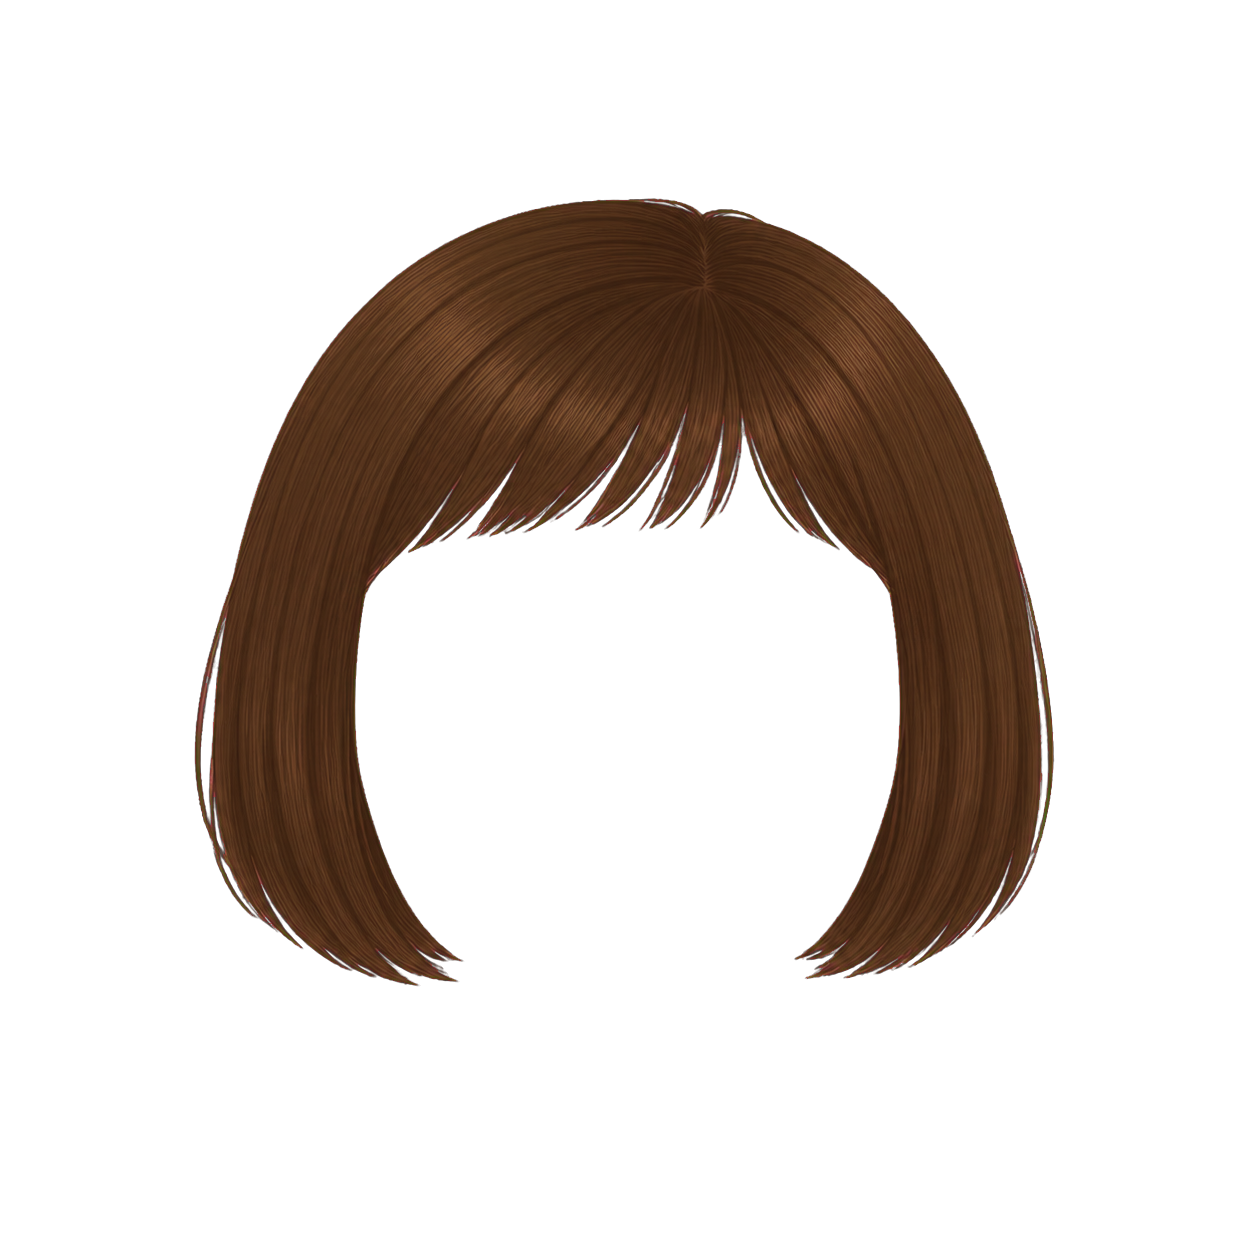
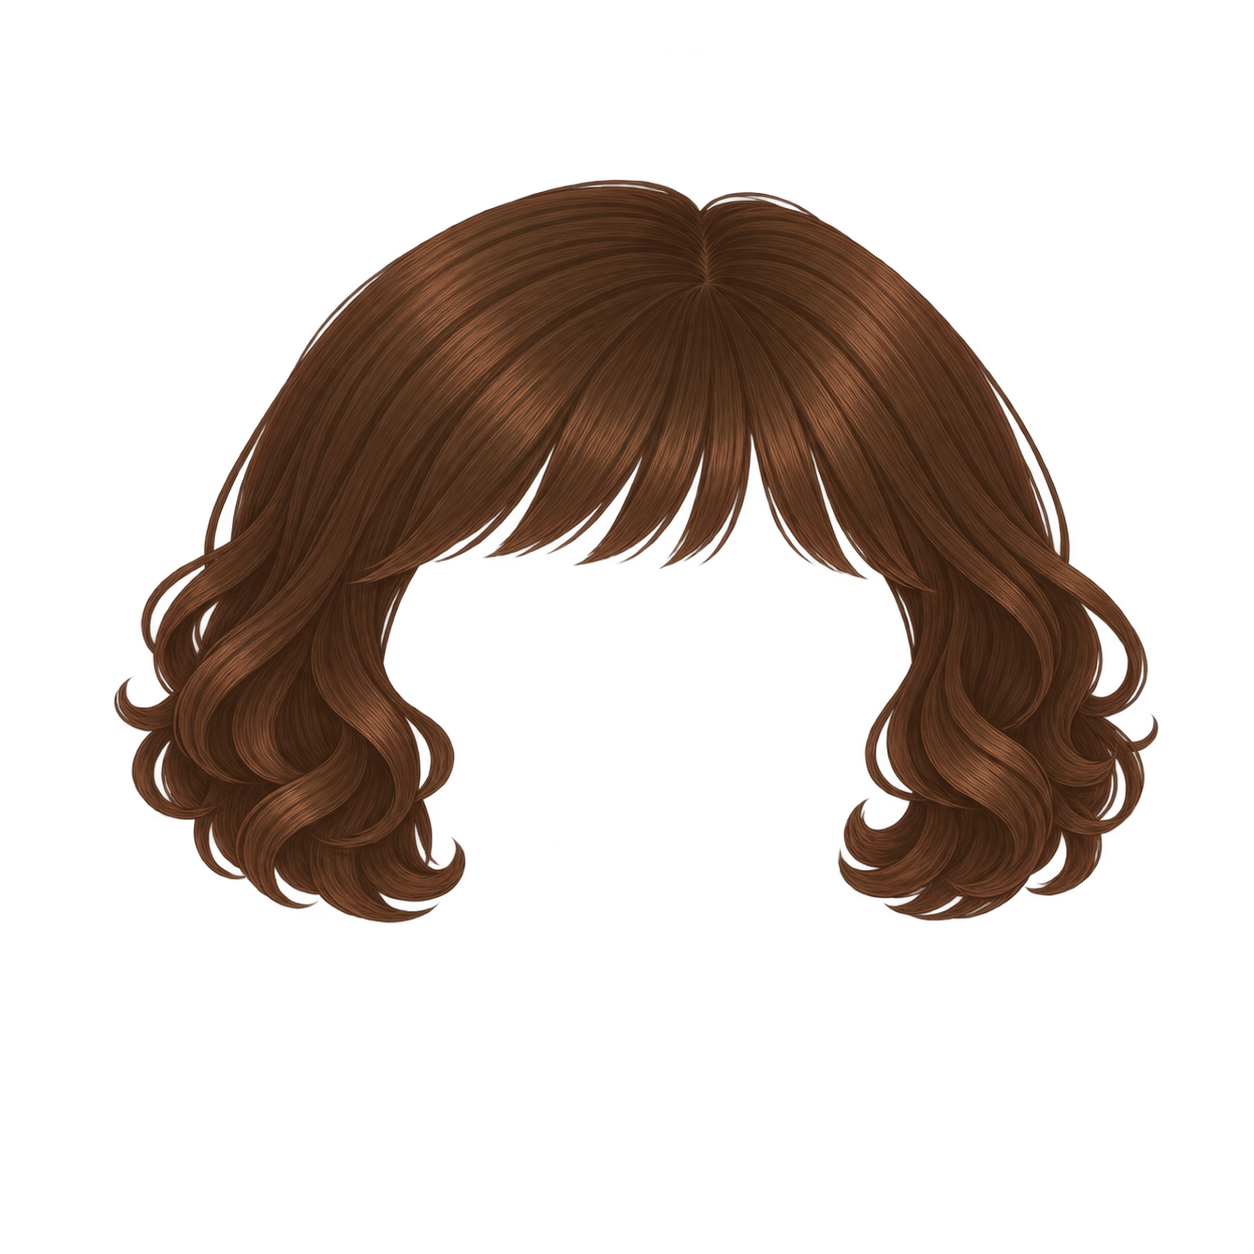
素材：區分女生髮型選項

Changed region(s): [[0.0933, 0.1244, 0.933, 0.8086]]

diff --git a/docs/plans/2026-09-25-girl-hairstyle-distinction-implementation.md b/docs/plans/2026-09-25-girl-hairstyle-distinction-implementation.md
@@ -1,0 +1,96 @@
+# Girl Hairstyle Distinction Implementation Plan
+
+> **For Claude:** REQUIRED SUB-SKILL: Use superpowers:executing-plans to implement this plan task-by-task.
+
+**Goal:** Replace girl hair assets 02, 08, and 09 with visually distinct, aligned, transparent paper-doll layers while retaining their stable catalog IDs.
+
+**Architecture:** Only raster assets change; `AvatarConfiguration` IDs and `AvatarAssetCatalog` paths remain stable. Each replacement must conform to the shared 1254×1254 RGBA layer contract so saved learner selections continue resolving without migration.
+
+**Tech Stack:** Built-in image generation, PNG/RGBA assets, ImageMagick/Pillow checks, Flutter avatar tests, MathSpringReviewer visual inspection.
+
+### Task 1: Preserve the asset contract in tests
+
+**Files:**
+- Test: `test/avatar_catalog_test.dart`
+- Test: `test/avatar_preview_test.dart`
+- Verify: `assets/avatars/girl/hair/hair-02.png`, `hair-08.png`, `hair-09.png`
+
+**Step 1: Add a focused regression assertion**
+
+Assert IDs `girl_hair_02`, `girl_hair_08`, and `girl_hair_09` resolve to their own existing front-layer paths and remain individually selectable.
+
+**Step 2: Run the focused suite**
+
+Run: `flutter test test/avatar_catalog_test.dart test/avatar_preview_test.dart`
+
+Expected: PASS before artwork replacement, proving the stable-ID contract is already covered.
+
+### Task 2: Generate replacement artwork
+
+**Files:**
+- Replace: `assets/avatars/girl/hair/hair-02.png`
+- Replace: `assets/avatars/girl/hair/hair-08.png`
+- Replace: `assets/avatars/girl/hair/hair-09.png`
+
+**Step 1: Generate hair 02**
+
+Generate one transparent hair-only layer: ear-length, visibly springy short curls; no tied sections, no face, no features, and no background.
+
+**Step 2: Generate hair 08**
+
+Generate one transparent hair-only layer: high ponytail with side-swept fringe; visibly raised rear silhouette; no face, features, or background.
+
+**Step 3: Generate hair 09**
+
+Generate one transparent hair-only layer: low twin ponytails, smooth rather than braided; no face, features, or background.
+
+**Step 4: Install selected outputs**
+
+Move only the accepted images into their stable paths. Preserve the old files until a replacement has passed inspection.
+
+### Task 3: Validate images and composed previews
+
+**Files:**
+- Verify: replacement PNGs and generated previews under `/private/tmp`
+
+**Step 1: Check format and alpha**
+
+Run ImageMagick/Pillow checks confirming each output is 1254×1254 RGBA with transparent pixels and no chroma-key spill.
+
+**Step 2: Compose each hairstyle**
+
+Run:
+
+```sh
+sh scripts/compose_girl_avatar_preview.sh \
+  assets/avatars/girl/hair/hair-02.png \
+  assets/avatars/girl/nose/nose-01.png \
+  assets/avatars/girl/mouth/mouth-01.png \
+  /private/tmp/hair-02-preview.png
+```
+
+Repeat with `hair-08.png` and `hair-09.png` in the first argument and matching
+`/private/tmp/hair-08-preview.png` and `/private/tmp/hair-09-preview.png` output paths.
+
+**Step 3: Visually inspect**
+
+Confirm each style preserves face visibility, alignment, alpha, and a distinct outline from hair 01, 03, and one another.
+
+### Task 4: Verify application integration
+
+**Files:**
+- Verify: `assets/avatars/girl/hair/hair-02.png`, `hair-08.png`, `hair-09.png`
+
+**Step 1: Run avatar tests**
+
+Run: `flutter test test/avatar_catalog_test.dart test/avatar_preview_test.dart test/avatar_editor_test.dart test/avatar_visual_matrix_test.dart`
+
+Expected: PASS.
+
+**Step 2: Launch reviewer simulator**
+
+Open MathSpringReviewer → paper-doll material inspection. Select girl hair 02, 08, and 09 and inspect at runtime.
+
+**Step 3: Commit**
+
+Run: `git add assets/avatars/girl/hair/hair-02.png assets/avatars/girl/hair/hair-08.png assets/avatars/girl/hair/hair-09.png test/avatar_catalog_test.dart docs/plans/2026-09-25-girl-hairstyle-distinction-implementation.md && git commit -m "art: distinguish girl hairstyle options"`

diff --git a/docs/plans/2026-09-10-avatar-material-specification.md b/docs/plans/2026-09-10-avatar-material-specification.md
@@ -27,14 +27,14 @@
 | 臉型 | `girl_face_01` | 女生基準臉型；髮型驗收的臉部邊界參考 |
 |  | `girl_face_02`–`girl_face_05` | 其他輪廓版本；變化限定在臉型外輪廓，不改五官基準位置 |
 | 髮型 | `girl_hair_01` | 基準短鮑伯＋齊瀏海 |
-|  | `girl_hair_02` | 暖栗色短鮑伯；與長波浪款保持不同外輪廓 |
+|  | `girl_hair_02` | 耳下蓬鬆短捲髮；不含綁髮，與短鮑伯和長波浪款保持清楚不同外輪廓，且不遮眼 |
 |  | `girl_hair_03` | 中分長波浪髮 |
 |  | `girl_hair_04` | 長鮑伯／齊瀏海 |
 |  | `girl_hair_05` | 低位雙束髮 |
 |  | `girl_hair_06` | 深棕色雙辮髮；與雙束髮保持不同末端輪廓 |
 |  | `girl_hair_07` | 高馬尾／側瀏海 |
-|  | `girl_hair_08` | 暖赤棕色側分長波浪髮；與齊瀏海鮑伯保持不同輪廓 |
-|  | `girl_hair_09` | 焦糖色側分短鮑伯；不使用雙束髮輪廓 |
+|  | `girl_hair_08` | 高馬尾＋側瀏海；馬尾抬起並位於頭部後側，瀏海不遮眼，與長波浪款和雙束髮保持不同輪廓 |
+|  | `girl_hair_09` | 平順低位雙馬尾；不使用辮髮，與雙辮髮和短鮑伯保持不同末端輪廓，且不遮眼 |
 |  | `girl_hair_10` | 雙辮髮 |
 | 眼睛 | `girl_eyes_01` | 預設正常眼睛；唯一需要保留的無眼鏡基準款 |
 |  | `girl_eyes_02`–`girl_eyes_05` | 舊有正常眼睛變體；待人工檢視後決定保留或停止提供，避免相似選項過多 |
